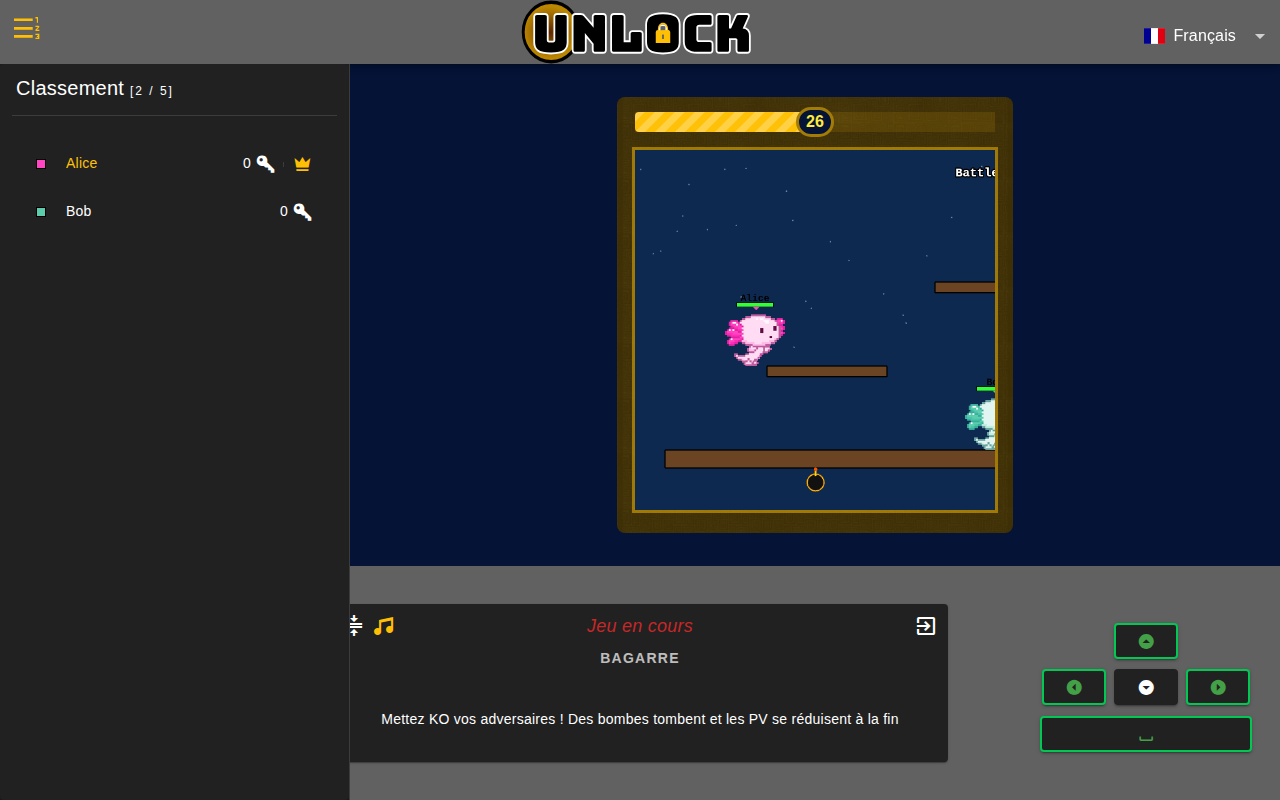
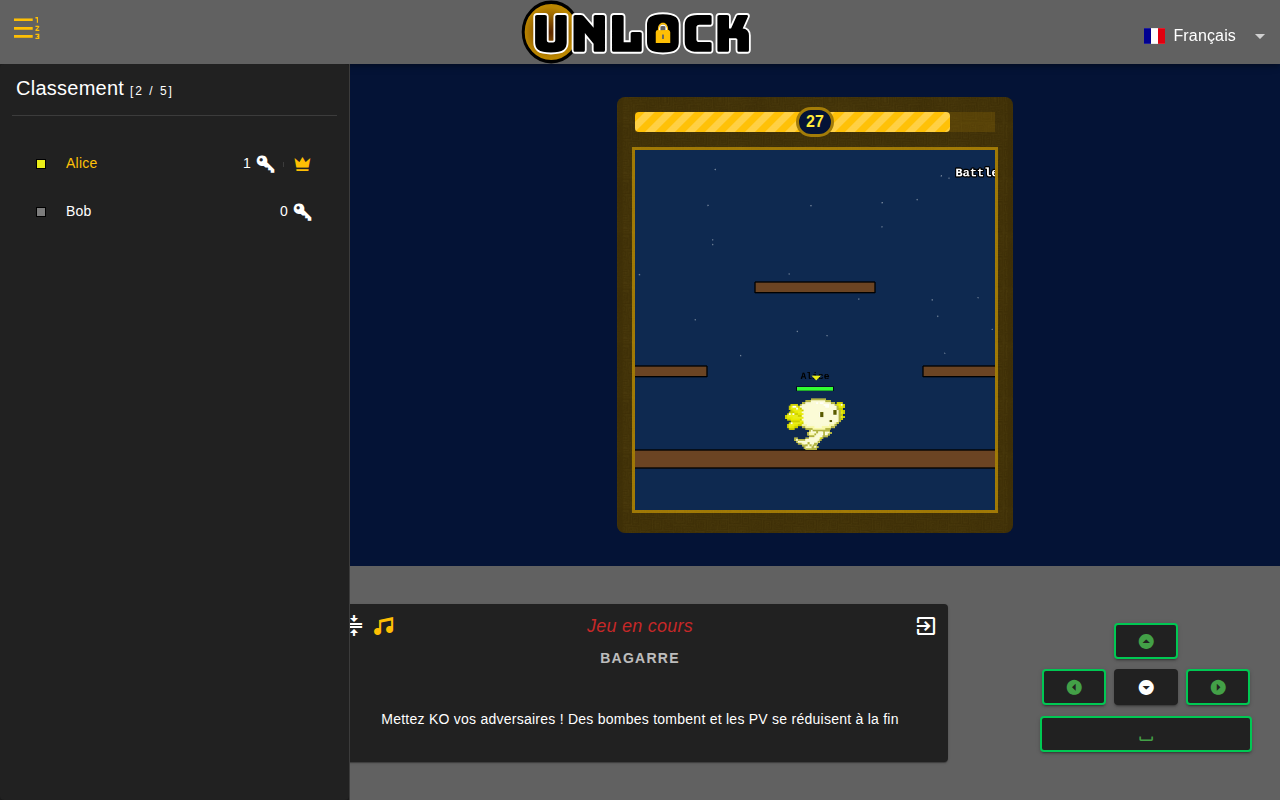
Brawl : remonter le pseudo au-dessus de la barre de vie
Sur les premières captures, la barre de vie (placée à body.y-16) se
superposait au pseudo du joueur (positionné par défaut à body.y-28 par
l'Axolotl), donnant un rendu illisible.

Plutôt que d'écraser la position du texte à chaque frame depuis
updateHpBars (fragile : axolotl.update() et SceneUtils
.handleServerAxolotlMovement la rétablissent constamment), on patche
les méthodes updateNamePosition et updateNameTrianglePosition
directement sur chaque instance Axolotl spawnée dans Brawl. Le y est
décalé à body.y-38 pour le pseudo et body.y-26 pour le triangle, peu
importe qui appelle ces méthodes.

Ce patch est local à GameBrawlScene (appliqué dans
maybeSpawnLocalAxolotl et ensureRemoteAxolotl) ; les autres scènes
gardent le rendu standard.

Ordre vertical final au-dessus de la tête de l'axolotl :
  pseudo
  ▼ triangle
  ━ barre de vie
  axolotl

Re-capture des screenshots 04-game-brawl-start et 04-game-brawl-bombs
avec le pseudo correctement positionné.

diff --git a/client/src/models/scenes/game-brawl-scene.js b/client/src/models/scenes/game-brawl-scene.js
@@ -136,6 +136,16 @@ export default class GameBrawlScene extends Scene {
     return SPAWN_POSITIONS[idx % SPAWN_POSITIONS.length]
   }
 
+  // Remplace les positions par défaut du pseudo et du triangle pour
+  // qu'ils apparaissent au-dessus de la barre de vie au lieu de la
+  // chevaucher. Appliqué à chaque instance créée dans la Bagarre.
+  patchAxolotlNameOffset(axolotl) {
+    const origName = axolotl.updateNamePosition.bind(axolotl)
+    const origTri = axolotl.updateNameTrianglePosition.bind(axolotl)
+    axolotl.updateNamePosition = (x, _y) => origName(x, axolotl.body ? axolotl.body.y - 38 : _y)
+    axolotl.updateNameTrianglePosition = (x, _y) => origTri(x, axolotl.body ? axolotl.body.y - 26 : _y)
+  }
+
   maybeSpawnLocalAxolotl() {
     if (this.axolotl || !this.gameData) return
     if (!this.gameData.players.includes(store.state.client.uuid)) {
@@ -153,6 +163,7 @@ export default class GameBrawlScene extends Scene {
         store.state.client.name,
         store.state.client.spriteColor,
     )
+    this.patchAxolotlNameOffset(this.axolotl)
     this.axolotlsMap.set(store.state.client.uuid, this.axolotl)
     this.physics.add.collider(this.axolotl, this.platforms)
     this.cameras.main.startFollow(this.axolotl, true, 0.1, 0.1)
@@ -168,6 +179,7 @@ export default class GameBrawlScene extends Scene {
         player.name,
         player.spriteColor,
     )
+    this.patchAxolotlNameOffset(sprite)
     this.physics.add.collider(sprite, this.platforms)
     this.axolotlsMap.set(uuid, sprite)
   }
@@ -182,7 +194,9 @@ export default class GameBrawlScene extends Scene {
     }
   }
 
-  // Met à jour la barre de vie au-dessus de chaque participant.
+  // Met à jour la barre de vie au-dessus de chaque participant, et
+  // remonte le label du pseudo au-dessus de la barre (sinon ils se
+  // superposent, le pseudo étant à y-28 et la barre à y-16 par défaut).
   updateHpBars() {
     if (!this.gameData) return
     const initialHp = this.gameData.initialHp || 5
@@ -216,6 +230,10 @@ export default class GameBrawlScene extends Scene {
       } else {
         bar.capMark.setVisible(false)
       }
+
+      // Le décalage du pseudo (au-dessus de la barre) est appliqué via
+      // patchAxolotlNameOffset() au moment du spawn de chaque axolotl,
+      // donc rien à faire ici.
     }
   }
 
